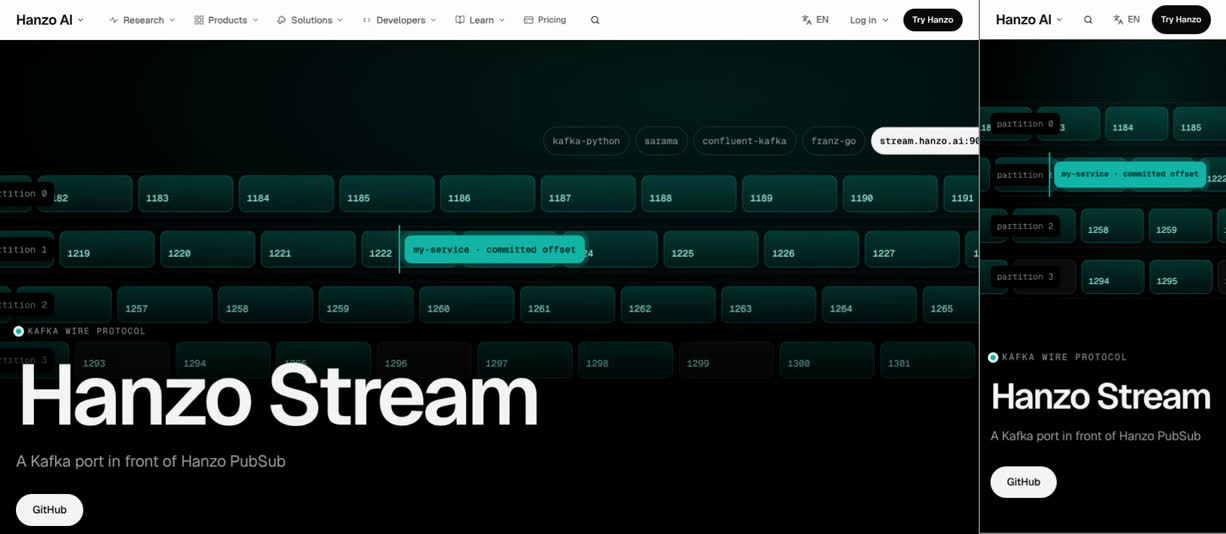
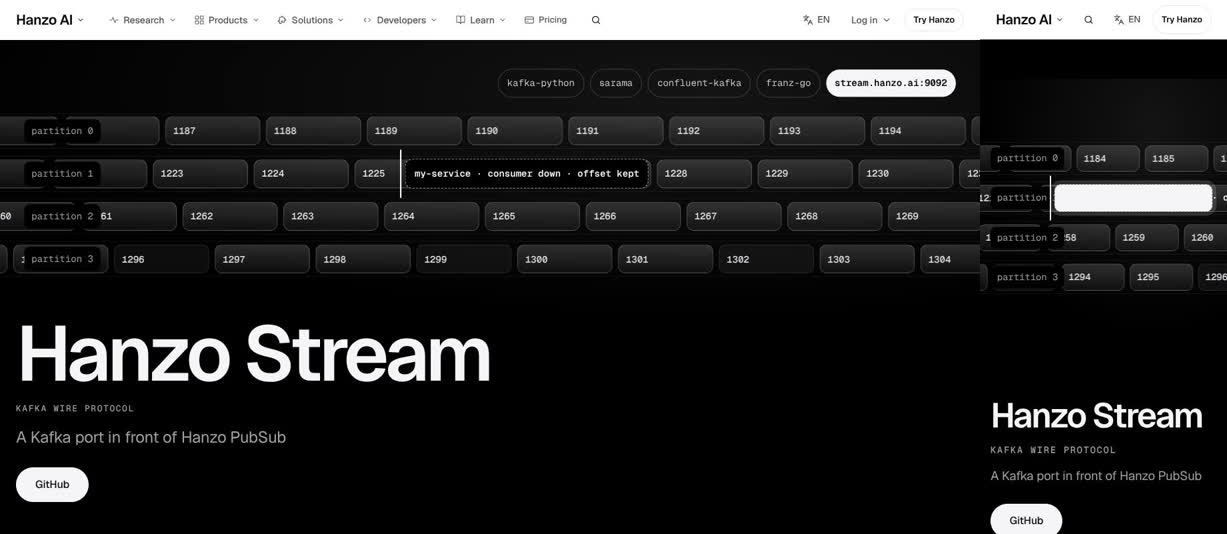
re-review: /stream 6/10 on the recoloured build (everything big, ask pill over code, card claims false)
Claude-Session: https://claude.ai/code/session_01DqUybEnABm6Lfey1goid2b

diff --git a/docs/review/stream.md b/docs/review/stream.md
@@ -1,49 +1,158 @@
 # /stream: James-eye review
 
-Verdict: 5/10
-First complaint: "It's teal-green again. The whole top is teal boxes full of numbers, the title is crashing into them with a little label squeezed on top, and on my phone the six points are hidden off the side of the screen. Once I'm past the top, nothing moves on its own."
+Verdict: 6/10
+First complaint: "Everything is huge. A giant title, then giant numbers, giant headings and giant words, card after card, with nothing small to rest my eye on. A 'GitHub' pill floats in the middle of the screen on top of the code. On my phone the six points are still hidden off the side, and once I'm past the top nothing moves."
 
-Reviewed: branch `claude/laughing-hamilton-uisesd` @ `cd5ee2a` (since merged to main; main's copy differs only in the reduced-motion hook, now the shared `useCalm`, and in loading the hero and close styles from `components/v2/x-hamilton/Launch.css`, which is identical). Files hash: `f02d94e3d8a7`
-Walked 7 Nov 13:58–14:01 UTC on the dev server, moving, at 1470×801 and 375×812 (videos, frame sheets and a frame-difference motion log kept by the critic; the site loader was skipped).
+Reviewed: main @ `2106935` (last page commit `4b53974`). Files hash: `a2656d1152bd`
+Walked 7 Nov 14:44–14:47 UTC on the dev server, moving, at 1470×801 and 375×812 (videos, frame sheets and a frame-difference motion log kept by the critic; the site loader was skipped).
 Proof: `img/stream.jpg` (desktop first screen | phone first screen).
 
-## The 11 answers
-1. **Sells in 5 seconds, moves within 1 second?** Half. On arrival the screen is black under the header for about 1.5 s in the film, because the tape starts at opacity 0 and the title waits for the script. So nothing moves in the first second after paint (1 changed frame of 25 at both widths). Then the title cuts in by line mask and the tape runs: four partitions of numbered records slide sideways, a "my-service · committed offset" marker turns grey ("consumer down · offset kept") and comes back, and a red INVALID_RECORD chip bounces off lane 2. That is a real, live object on the first screen at both widths, and the client names (kafka-python, sarama, confluent-kafka, franz-go, stream.hanzo.ai:9092) tell a developer what this is. To James it is a wall of teal boxes with numbers in them. At 1470×801 the top of the title runs into the fourth lane. On the phone the tape, title and button all fit (button at y 711 of 812).
-2. **One in, one out, or a document?** On desktop, yes for the first half. The tape clips into a rounded card as you scroll; for a moment that card is the tape in its top half and empty black below. Then the six facts pin and slide sideways under the scroll, each card filling in as "committed offset 0001 … 0006" counts along the bottom. That is the page's best move. But the cards are near-equal grey boxes with 4–5 line paragraphs, three on screen at once, so it still reads as a row of text. After the tape the page is a document: code with the checker, then the shared close. On the phone nothing pins. The facts are a swipe rail, and the walk shows only "Your clients, our store", "01 / 06 — 06 / 06", white space and a 24px sliver of the first card at the right edge. (The desktop film runs up to 9 s behind the walk and never reaches the close, so the close is judged from the phone film and the walker's measurements.)
-3. **A real object in every section?** Hero: yes, the running tape. Facts: no object, only big outlined numerals and paragraphs, and the four words that end the tape (Kafka, PubSub, Stateless, Durable) are type too. "One line changes": yes, the producer.py code and the "Does my client's call work?" checker with its twelve API chips. Close: the "Paste and ship" agent prompt. The "Get Stream" block has only two chips (licence and stars).
-4. **One ask, sticky after the hero?** No. The hero's only button is "GitHub" (solid white). On desktop no page ask follows you after the hero; only the header's "Try Hanzo" does. At the close, "View on GitHub" and "Deploy to Cloud" are both solid on one screen, which makes three solid buttons with the header. On the phone the header's "Try Hanzo" and the bottom bar's "GitHub →" are two solid asks on screens 2–4, and "View on GitHub" makes three on screen 4. One link wears three labels (GitHub, GitHub →, View on GitHub), and the close adds a fourth verb (Deploy to Cloud).
-5. **Every hover and press answers?** No. Hero "GitHub" has no hover change and no press state, though the file claims a "magnetic primary". "Copy" has no hover but presses well (0.94). The close's "View on GitHub" answers hover but has no press. The phone tap on Copy answers ("Copied"). Nothing else reacts to the pointer: not the fact cards, the figures or the API chips. The walk did not type into the checker.
-6. **Overlap, font swap, layout shift?** CLS is 0 at both widths, the h1 box is steady and nothing scrolls sideways at 375 or 320. The walker found no overlap between page elements. But at 1470×801 the headline sits on the fourth partition lane: the record boxes' bottom edges cut through the top of "Hanzo Stream", and the eyebrow is wedged into the 10px gap between lanes 3 and 4. The left edge cuts the lane labels ("rtition 0") and the right edge cuts the "stream.hanzo.ai:9092" chip ("stream.hanzo.ai:90"). In the four words at the end of the tape, "Stateless" breaks mid-word into "Stateles / s". At the walk's scroll steps, "Your clients, our store" is already half off the left edge ("ents, / re") when the tape pins.
-7. **Which reference, and is its motion there?** The apple.com product page: the pinned sideways strip that the scroll scrubs, with a counter, is there and is the nearest thing to the "scrubbed strips" James likes. The synchronized.studio card-open is absent: no card opens. For the anthropic launch, the four big words hint at hero figures, but they arrive at the end of a strip and one of them is broken. Nothing comes from osply or hamol (no pointer-aware detail).
-8. **Different from its neighbours?** Partly. Its hero medium, a full-bleed dark tape behind the title, gives the only dark first screen in Cloud 4. /search is a centred title over a search box, /sentinel a title beside an error console, /telemetry a split title over a collector and /tunnel a title over a terminal. But all five share the StageHero skeleton: a "● KICKER" dot label over a 128px "Hanzo X", one line and one button. The sideways fact rail with "01 / 06 — 06 / 06" beside it is the /iam rail ("01 / 08 — 08 / 08", big accent words on grey cards). The close is the shared "Get X" block of /metrics and /ledger. James: "It's not just a template."
-9. **All 18 parts covered?** No; see below. `docs/coverage/stream.md` is missing.
-10. **Banned tells?** Yes:
-   - Teal UI hue throughout: the record cells, the hero glow, the committed-offset marker, the fact numerals and "offset 000N" labels, "Kafka", the checker label, its focus ring and the code highlight. The file declares it as "Accent: offset teal", and the walk measured 119 text, 80 border and 2 background teal readings on desktop. This breaks JAMES.md rule 7, and on black it reads as green, which is on his reject list.
-   - A red INVALID_RECORD chip in the hero, at both widths.
-   - Green strings and blue keywords in the producer.py code.
-   - A "● KAFKA WIRE PROTOCOL" eyebrow 24px above the h1.
-   - A dead hover and no press on the hero's only button.
-11. **Copy untouched?** Yes. Parity is 75/75 text and 2/2 links. The producer.py lines flagged as new are Hanzo's own sample, split up by the syntax colouring; the sample is verbatim on Hanzo's page. The other additions are the tape's demo data (partition and offset numbers, "my-service · committed offset / consumer down · offset kept", INVALID_RECORD) and the checker's prompt ("Does my client's call work?", "Type a Kafka API."). The checker's code also holds three answer lines that the walk did not trigger: "… is one of the twelve, at the versions modern clients negotiate.", "… is not among the twelve APIs Hanzo lists." and "Did you mean …?". They reuse Hanzo's list and phrase and read as UI, but the builder wrote them, and there is no `content/ui-strings.json` register to hold them.
+## Since the last review
+- **Done: the colour.** The walk finds no hue at either width (hues `{}`). The last build had 119 text, 80 border and 2 background teal readings, a red chip, and green and blue code. Now the records are silver on black, the committed-offset marker is a white chip and INVALID_RECORD is an outlined white word. The code is ink and grey, with a grey wash and an ink underline on `stream.hanzo.ai:9092`.
+- **Done: the hero.** "KAFKA WIRE PROTOCOL" now sits under the h1 as a caption (it was an eyebrow above it). The lanes end about 63px above the title (they used to cut through it), and the lane labels and the `stream.hanzo.ai:9092` chip sit inside the screen. "Stateless" no longer breaks. With JS off, 0 text runs are hidden (it was 3: the eyebrow, the lede and the button).
+- **Done: one ask, buttons, card.** Each screen has one solid button: the hero's "GitHub", then the ask pill, then "View on GitHub" alone at the close, with "Deploy to Cloud" as text. The close used to have three solid buttons. All six tested controls answer hover and press (the hero's "GitHub" was dead). The "offset 000N" labels pass contrast now (they were 2.4:1), and the phone repo chip is no longer a tiny target. The header has Persona, Goal and CTA lines, there are 3 `data-cta` (was 0), and `docs/coverage/stream.md` exists (it was missing).
+- **Still open:**
+  - The phone facts rail. At s1 the phone shows the heading, white space and a 24px sliver of the first card at x 351. Snap is still `mandatory`.
+  - Nothing moves on its own after the hero. Desktop has 0 running animations on s2–s8, and 8 of 10 phone screens are STILL.
+  - The six facts still don't open.
+  - The tape's pause can't be seen.
+  - New since the 14:40 rules: everything is big at once, and the ask pill floats over content.
+- **Not in this walk:** two later commits reached main at 14:52 (merge `c3615cd`), after this 14:44 walk. `356278d` puts the heading above the phone rail, adds proximity snap from the gutter and a running partition as the closing object. `d1a2614` sets the Cloud 4 type scale (h1 52, heads 26, h3 17). Neither is judged here, and the page needs a re-walk.
 
-## Missing from the 18 parts (PLAN-COMPONENTS §2.1–2.18, measured)
-- **2.1 Strategy / 4 Common gate:** the page header has no `Persona:`, `Goal:`, `CTA:` or metric id. More than one solid button shows per viewport (see answer 4).
-- **2.3 First impression:** with JS off the h1 shows, but the eyebrow, the lede "A Kafka port in front of Hanzo PubSub" and the only button "GitHub" are invisible (3 hidden runs). No card opens into a page (Morph row).
-- **2.4 Conversion:** 0 `data-cta`. One GitHub link appears under three labels, and the close has two solid buttons. Raw `.x-btn` is used 4 times (the gate says `<Cta>` only).
-- **2.6 Content:** "Stateless" splits into "Stateles / s" at 1470×801, because the 300px figure column is narrower than the word at about 74px. 3 runs are under the 13px desktop floor ("producer.py", "Copy") and 37 under the 14px phone floor, mostly code lines. By its CSS, the tape's "my-service" marker is 12px on phones.
-- **2.7 Visual system:** teal `#12b5a6` as the page accent, the red `#e5484d` chip, and green and blue code colours all break the 0-hue override.
-- **2.8 Components:** the hero button has no hover and no press, "Copy" has no hover and "View on GitHub" has no press. There are 9 bare `:hover` rules. The phone rail uses `scroll-snap-type: x mandatory` with about a 6% peek (plan: proximity, 14–18%). The checker's focus ring is teal, not the site ring.
-- **2.9 Motion:** there are 2 `setInterval` timers (the tape's 900ms tick). Four lanes move at once in the hero (plan: at most 1 continuous mover per viewport). After the hero all motion is scroll-linked: the clip-to-card, the sideways strip, the numerals filling and the offset counter. With no input, nothing moves from the facts to the footer except the agent prompt's blinking caret: desktop measured 0 running animations on screens 2–9, and the phone film shows screen 3 still and screens 2 and 4 under 1.1 max change. The claimed magnetic primary did not register. Reduced motion settles.
-- **2.11 Mobile:** the six facts' rail starts its first card at 351px of 375, so the phone shows none of them without a swipe it gives no hint of. The "hanzoai/stream 4 stars" chip is 36px tall (plan: 44px).
-- **2.12 Accessibility:** "offset 0001" to "offset 0006" measure 2.4:1 (9 runs under 4.5:1). The running tape has no pause control (WCAG 2.2.2).
-- **2.13 Performance:** the hero object starts at `opacity: 0` and the title is masked until the script runs. The first screen is black for about 1.5 s on the dev server (plan: no `opacity: 0` on the LCP).
-- **2.15 Product pages:** the six features do not open (cloud product anatomy: "openable features").
-- **Coverage:** `docs/coverage/stream.md` is missing on the branch and at the walked commit.
-- Passing: one h1, one main, no horizontal scroll at 320, no raw img/video/table, no `title=` tooltips or native selects, CLS 0 and a steady h1 box at both widths, reduced motion settles, parity 75/75 and 2/2, and page title, description and JSON-LD from the index.
+## The 11 answers
+1. **Sells in 5 seconds, moves within 1 second?** Yes, on the first screen.
+   - Desktop: the whole hero fits inside 801.
+     - Four partitions of records run full-bleed under the client chips (kafka-python, sarama, confluent-kafka, franz-go, `stream.hanzo.ai:9092`).
+     - Below them sit "Hanzo Stream" with clear air above it, the caption, "A Kafka port in front of Hanzo PubSub" and one white "GitHub" button at y 701.
+   - The tape runs by itself (s0 shotdiff 5.58; 47/248 moving frames in the dwell):
+     - the marker cycles from "committed offset" to "consumer down · offset kept" to "back where it left off";
+     - INVALID_RECORD bounces off lane 2.
+   - Desktop measures 1/25 moving frames in the first second after paint. That is the dev server's normal hydration wait: the screen is black for about 1.5 s. From then on it moves: 17/44 frames in the rest of the 3 s.
+   - Phone: 12/25 moving frames in the first second, and the tape, title, caption, lede and button all fit on one screen. But the button sits at y 766, outside the 660px band MASTER part 3 asks for.
+   - The tape's own text collides:
+     - The "partition N" chips sit on top of the records and cut their numbers ("60 partition 2 61").
+     - As INVALID_RECORD fades, record 1258 prints through it (d-shot-01-a).
+     - On phone the marker runs off the right edge ("committed offse"). Each time it switches to "consumer down" it shows as a blank white box for a moment (p-shot-00-b, the proof image). Its text turns white before its fill turns black.
+   - The strip's loop seam shows offsets going backwards inside a partition (1269 → 1254 and 1306 → 1291 at s1). The page's fifth fact is "Offsets are stamped, not inferred", so a Kafka user will notice.
+2. **One in, one out, or a document?** Desktop: half.
+   - The tape clips into a rounded card. For the whole s1 dwell, that card is three lanes in the top 200px with about 410px of empty black under them (d-shot-01).
+   - Then the six facts pin and slide sideways under the scroll. Each record's numeral fills with ink as you reach it, and "committed offset 0000 … 0006" counts along the bottom. It is still the page's best move.
+   - But the records are equal 480px grey boxes with 4–6 line paragraphs, and three are on screen at once, so it reads as a row of text.
+   - After the strip the page is a document: four big words, the code with the checker, then the shared close in two black blocks ("Point the bootstrap server at it", then "Get Stream").
+   - Phone: nothing pins. s1 shows "Your clients, our store", "01 / 06 — 06 / 06", white space and a 24px sliver of the first card at the right edge, the same as last time.
+3. **A real object in every section?**
+   - Hero: yes, the running tape.
+   - Facts: no object. They are outlined numerals and paragraphs, and the four end words (Kafka, PubSub, Stateless, Durable) are type too.
+   - "One line changes": yes. It holds producer.py with the bootstrap line marked, and the "Does my client's call work?" checker with its twelve API chips.
+   - Close: the shared "Paste and ship" prompt. "Get Stream" holds only two chips.
+4. **One ask, nothing floating, scale with rhythm?** The ask: yes. Floating: fails. Scale: fails.
+   - **One solid per screen now:**
+     - the hero's "GitHub";
+     - then the site's ask pill "GitHub →" from s1 to s8;
+     - then "View on GitHub" alone at the close.
+
+     The header's "Try Hanzo" stays outlined until the footer.
+   - **The ask floats over content on desktop.** It lives in the site's pill (`div.x-ask`, 308×54 at y 727, bottom centre), not in the header.
+     - At s1 it sits on the top of the "0001" record.
+     - Through s2–s6 it sits on the page's own committed-offset line.
+     - At s7 it covers the code window's title (only ".py" of "producer.py" shows). The walk logs FLOATS over the h2 "One line changes".
+     - On phone the bar covers the last code line, "process(message.value)", at s3.
+     - MASTER §3.2.6 bans a floating pill on desktop. The fix is shared (it is already requested in `docs/review/SYSTEM.md`), but the page still fails.
+   - **A second float.** The pinned track carries `data-swipe-own`, so the site cursor shows "Drag" beside the pointer over the strip. It is the black "D" chip at the right edge of s3–s7, and the strip can't be dragged: you scroll it.
+   - **Everything is big at once:**
+     - The h1 rests at 116px (live hanzo.ai: 52px).
+     - Section heads: "Your clients, our store" 96px, "One line changes" 56px, "Point the bootstrap server at it" 74px, "Get Stream" 88px (live: 26px).
+     - Record numerals are 103px, two to four on screen at once beside 41px card titles. The four end words are 68px.
+     - The walk counts BIG×3 to BIG×4 on s2–s5 and BIG×6 on s6–s7.
+     - Only the tape's clip shrinks. Nothing grows for its moment and settles back.
+5. **Every hover and press answers?** Yes, now, apart from Pause.
+   - "GitHub": the hover answers and it presses to 0.98.
+   - "Copy": the hover answers and it presses to 0.92.
+   - "View on GitHub" and the "hanzoai/stream 4 stars" chip press to 0.98.
+   - "Deploy to Cloud": the hover answers and it presses 1px.
+   - The phone tap on Copy shows "Copied".
+   - Pause: the walk measures no press, and no frame shows the button. Its corner of the tape is pure black in both s0 shots, under the hero copy's black gradient (`.st2 .l2-stage.frame .l2-stage-copy::before`).
+   - Nothing answers the pointer itself (no magnet, tilt or hover preview), apart from the wrong "Drag" label.
+6. **Overlap, font swap, layout shift?**
+   - Measurements are clean: CLS 0 at both widths, and one h1 box reading at each width (116px desktop, 52.5px phone), so the box never moves. No horizontal scroll at 375 or 320, and no overlaps between non-fixed page elements.
+   - But the fixed ask covers content at both widths (answer 4), and the tape's own text overlaps itself (answer 1).
+7. **Which reference, and is its motion there?**
+   - apple.com product page: yes. The strip pins and the scroll moves it sideways, with a counter.
+   - synchronized.studio card-open: absent. The six facts don't open.
+   - anthropic launch: the four end words try to be hero figures, but they arrive at the tail of a strip at 68px, four at once.
+   - osply/hamol pointer-aware detail: none.
+8. **Different from its neighbours?** The hero medium is its own, but the skeleton and the close are shared.
+   - Stream has the only full-bleed dark tape behind a title in Cloud 4:
+     - /search has a centred title over a search box;
+     - /sentinel has a two-line title beside an error console;
+     - /telemetry has a title over the collector;
+     - /tunnel has a title over a terminal strip.
+   - But all five use the same StageHero: a very large "Hanzo X", a mono caption under it ("HYBRID SEARCH + RAG", "SENTRY.HANZO.AI", "HANZO SHARE", "KAFKA WIRE PROTOCOL"), a lede and one button.
+   - All five also end on the same Finale: the closing line, "Paste and ship", the "Get X" chips and "Deploy to Cloud".
+   - The sideways fact rail with "01 / 06 — 06 / 06" beside its heading is /iam's rail ("01 / 08 — 08 / 08").
+   - James: "It's not just a template."
+9. **All 18 parts covered?** No (see below). The card exists, but its parts 9, 11 and 12 claim things the walk disproves, which caps the page at 7.
+10. **Banned tells?** Yes:
+    - Everything big at once: a 116px h1, 56–96px section heads and 103px numerals, up to BIG×6 on one screen.
+    - The ask pill floats over content on desktop (and over code on phone).
+    - A cursor-following "Drag" label over a strip that doesn't drag.
+    - A still middle: with no input, nothing moves from the facts to the footer.
+      - Desktop has 0 running animations on s2–s8. s3–s8 count as moving only because the scroll is still settling: the a/b shots differ by a 1–2px shift of the whole frame.
+      - On phone, 8 of 10 screens are STILL.
+
+    Clean: no hue at either width, nothing directly above an h1 or h2, no opacity-only hover, no `title=` tooltips, no sound, and no console errors.
+11. **Copy untouched?** Yes. Parity is 75/75 text and 2/2 links. The 11 added strings are:
+    - the tape's demo label ("my-service ·");
+    - the checker's prompt ("Does my client's call work?", "Type a Kafka API.");
+    - the producer.py lines, which are Hanzo's own sample split up by the highlighting.
+
+    The checker's three answer lines did not trigger in the walk. The builder wrote them, and none of the checker's strings are in `content/ui-strings.json`, which now exists.
+
+## Missing from the 18 parts (MASTER §2, measured; coverage card checked)
+- **Part 1:** the ask is in a floating pill, not the header. One href has three labels: "GitHub", "GitHub →" and "View on GitHub". The metric id sits on the CTA line, so the header check finds none. The card lists no copy questions.
+- **Part 3:** on phone the primary sits at y 766, outside the 660px for h1, lede, primary and 80px of product. Desktop s1 is three lanes over about 410px of empty black. The h1 cut-in runs 1.15 s (MASTER: 700 ms). No card opens into a page (Morph).
+- **Part 4:** the `data-cta` values are "primary", "close" and "deploy", not `stream.<slot>`. The sticky ask floats over content. The checker's strings are not in `content/ui-strings.json` (gate line 4).
+- **Part 6:** "producer.py" and "Copy" are under the floor at both widths (13px at 375). On phone the code wraps mid-statement (`bootstrap_servers=` / `["stream.hanzo.ai:9092"],`) instead of pin-scrolling.
+- **Part 7:** `Stream.css` uses literal greys that are not deck tokens: `#f5f5f7`, `#a1a1a6`, `#e8e8ed`, `#c7c7cc`, `#5f5f64`, `#3a3a3c`, `#ececf0` and `#e3e3e8` (the deck has `#f5f5f5`, `#a3a3a3`, `#525252`…). They have no hue, but they are not Hanzo's values. Three equal record boxes are on screen at once.
+- **Part 8:**
+  - Pause shows no state and no press, because nobody can see it.
+  - The checker's focus is its own 4px grey glow, not the site's 2px ink ring.
+  - The marker, the records and the checker transition `background` (MASTER: transform, opacity and clip-path only).
+  - The phone rail uses `scroll-snap-type: x mandatory` (plan: proximity, 14–18% peek).
+- **Part 9:**
+  - No idle mover after the hero at either width.
+  - The "Drag" cursor label shows over the pinned strip.
+  - No pointer kind of motion.
+  - The tape runs on `setInterval` (2 in `Frame.jsx`).
+  - Reduced motion is good: 0 running after 3 s.
+- **Part 11:**
+  - The phone facts rail starts its first card at x 351 of 375, so none of the six facts shows without a swipe the page never hints at.
+  - "Deploy to Cloud" has a 132×21 hit area.
+  - The phone bar covers code.
+- **Part 12:** "producer.py" measures 2.6:1 at both widths. The running tape's pause is never on screen (WCAG 2.2.2).
+- **Part 15:** the six features don't open, and there is no console in the cloud product anatomy.
+- **Coverage:** `docs/coverage/stream.md` exists (18 numbered parts, the older format). These claims are false against the walk:
+  - part 11 "text ≥14px": "producer.py" and "Copy" are 13px at 375;
+  - part 11 "a swipe rail with snap and a peek": the first card is a 24px sliver and snap is mandatory;
+  - part 12 "contrast ≥4.5:1": "producer.py" is 2.6:1;
+  - part 12 "44px Pause on the running tape", and part 9 "(with Pause)": the button is in the DOM, not on screen.
+
+  HEAD's newer card keeps "text ≥14px", "contrast ≥4.5:1" and the Pause line.
+- Passing: one h1, visible with JS off and 0 hidden runs; one main; CLS 0 and a steady h1 box at both widths; no horizontal scroll at 320; no tiny targets on desktop; 0 `title=` tooltips and no native selects; no raw img, video or table; 3 `data-cta` and 1 `data-thumb`; no console errors; reduced motion settles; no hue; parity 75/75 and 2/2; band at the end.
 
 ## Fixes (in order)
-1. **Take the teal and the red out.** Set `--ac` to ink. Make the record cells grey glass (white fill at 6–10%, a white hairline) and drop the teal glow. Make the committed-offset marker a white pill with ink text and the "consumer down" state the dark grey it already uses. Make INVALID_RECORD an inverted white chip that shakes instead of a red one. Fill the numerals with ink once read and outline them in grey before. Set "offset 000N" in a grey that passes 4.5:1. In the code, use weight and grey instead of green and blue, and an ink underline on `stream.hanzo.ai:9092`.
-2. **Delete the "● KAFKA WIRE PROTOCOL" eyebrow and give the title clear air.** End the tape one lane higher, or lift it, so no record box runs behind "Hanzo Stream" at 1470×801. Keep the lane labels and the "stream.hanzo.ai:9092" chip inside the screen edges. Render the lede and the GitHub button visible in the server HTML, so they can animate from a visible state but never from nothing.
-3. **Show the facts on the phone.** Take "Your clients, our store" and "01 / 06 — 06 / 06" out of the rail and put them above it. Then the first card starts at the 16px gutter with the next one peeking about 15%, and snap is proximity. Or stack the six cards on phones.
-4. **One ask.** Carry the hero's "GitHub" in a sticky bar after the hero at both widths (the phone bar already does). In the close, make "View on GitHub" the only solid button, with "Deploy to Cloud" as the text link beneath it. That changes weight only, not wording.
-5. **Make the hero button answer, and keep something alive after the hero.** Give "GitHub" a hover with a fill or ink shift and an arrow nudge, a press of scale 0.98, and a magnet that actually moves. Run the hero's grey record lanes faintly behind the pinned fact cards (or under the "committed offset" line), so the middle of the page moves without input.
-6. **Fix "Stateless".** Size the four end words to their column, or widen the column, so no word breaks. Check at 1470, 1280 and 375.
+1. **One big thing per screen.** Rest the h1 at 52px and the four section heads at 26px ("Your clients, our store", "One line changes: the bootstrap server", "Point the bootstrap server at it", "Get Stream"). Set the record titles at 17px. Let only the record you have reached grow to 64px. The others sit small in outline and shrink back as the next one arrives. Set the four end words at 26px. `d1a2614` claims the first half of this, so re-walk it.
+2. **Nothing floating.** Put `data-cursor=""` on `.st2-track` while it pins, so "Drag" never shows over a strip you scroll. Put `data-ask-hide` on the pinned facts section and on `.st2-code`, so the site's pill steps aside instead of sitting on the committed-offset line and the producer.py title. On phone, give `.st2-code` bottom padding equal to the bar's height, so it never covers the last line. The desktop pill itself is the shared request in `docs/review/SYSTEM.md`.
+3. **Show the facts on the phone.** Put "Your clients, our store" and "01 / 06 — 06 / 06" above the rail, start the first record at the 16px gutter with the next one peeking about 15%, and use proximity snap. `356278d` claims this, so re-walk it.
+4. **Keep the middle alive and the pause visible.** Run one grey lane of the hero's tape faintly along the committed-offset line under the pinned facts (one mover). On phone, fill each record's numeral when it snaps into view. Drop the `bottom: 28px` override in `.st2-pause` so the Pause sits at the tape's top right, above the copy's gradient.
+5. **Clean the tape.**
+   - Give INVALID_RECORD a solid fill that never shows the record behind it.
+   - Transition the marker's text colour together with its fill, so it never flashes a blank white box.
+   - On phone, pull the marker in so "committed offset" stays whole inside 375.
+   - Make the offsets only rise, for example by letting the existing 900 ms tick add 16 to a run's base each time it wraps.
+6. **Floors, names and the card.**
+   - Set "producer.py" to `#525252` (it is 2.6:1 now), and both "producer.py" and "Copy" to 14px on phone.
+   - Give "Deploy to Cloud" a 44px hit area.
+   - Name the CTAs `stream.primary`, `stream.close` and `stream.deploy`.
+   - Register the checker's strings in `content/ui-strings.json`.
+   - Then correct parts 9, 11 and 12 on the card.
